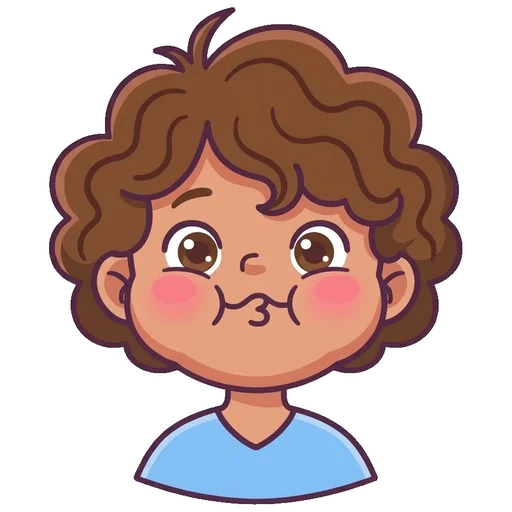
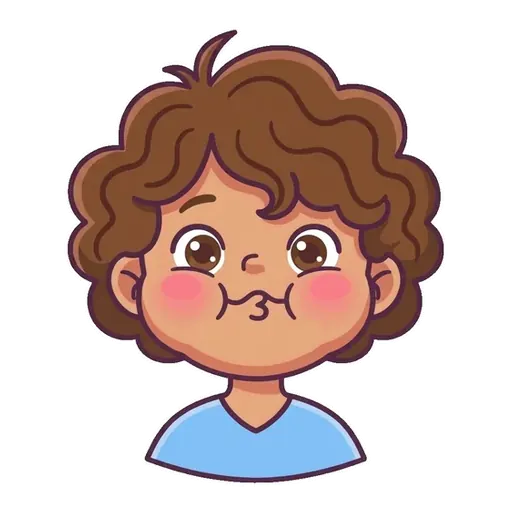
fix: Normalize three Caua frames to the reference size, position and skin tone (TASK-017)

Changed region(s): [[0.0938, 0.0, 0.9062, 1.0], [0.4688, 0.5, 0.5, 0.5312]]

diff --git a/test/assets/caua_frames_invariants_test.dart b/test/assets/caua_frames_invariants_test.dart
@@ -1,0 +1,346 @@
+import 'dart:io';
+import 'dart:math' as math;
+import 'dart:typed_data';
+import 'dart:ui' as ui;
+
+import 'package:flutter_test/flutter_test.dart';
+
+/// Locks the TASK-017 Caua frame normalization: canvas, alpha, weight,
+/// opaque bbox anchor, per-group size, skin/hair/shirt color and no dark halo.
+
+const _dir = 'assets/images/caua';
+
+const _expected = <String>[
+  'caua_chew_eyes_half',
+  'caua_chew_eyes_open',
+  'caua_chew_eyes_shut',
+  'caua_eca',
+  'caua_mouth_closed_eyes_half',
+  'caua_mouth_closed_eyes_open',
+  'caua_mouth_closed_eyes_shut',
+  'caua_mouth_open_eyes_half',
+  'caua_mouth_open_eyes_open',
+  'caua_mouth_open_eyes_shut',
+  'caua_win_eyes_half',
+  'caua_win_eyes_open',
+  'caua_win_eyes_shut',
+];
+
+// The 10 older frames used as the color reference.
+const _refNames = <String>[
+  'caua_chew_eyes_half',
+  'caua_chew_eyes_shut',
+  'caua_eca',
+  'caua_mouth_closed_eyes_open',
+  'caua_mouth_closed_eyes_shut',
+  'caua_mouth_open_eyes_half',
+  'caua_mouth_open_eyes_shut',
+  'caua_win_eyes_half',
+  'caua_win_eyes_open',
+  'caua_win_eyes_shut',
+];
+
+bool _isWin(String n) => n.startsWith('caua_win_');
+
+class _Frame {
+  _Frame(this.w, this.h, this.rgba);
+  final int w;
+  final int h;
+  final Uint8List rgba;
+  int r(int x, int y) => rgba[(y * w + x) * 4];
+  int g(int x, int y) => rgba[(y * w + x) * 4 + 1];
+  int b(int x, int y) => rgba[(y * w + x) * 4 + 2];
+  int a(int x, int y) => rgba[(y * w + x) * 4 + 3];
+}
+
+class _Metrics {
+  late int x0, y0, x1, y1;
+  double get bboxCx => (x0 + x1) / 2;
+  int get bboxW => x1 - x0 + 1;
+  int get bboxH => y1 - y0 + 1;
+  late List<double> skinRgb;
+  late List<double> hairRgb;
+  late List<double> shirtRgb;
+  late List<double> haloMean;
+  late int semiCount;
+}
+
+Future<_Frame> _decode(String name) async {
+  final bytes = await File('$_dir/$name.webp').readAsBytes();
+  final codec = await ui.instantiateImageCodec(bytes);
+  final fi = await codec.getNextFrame();
+  final img = fi.image;
+  final bd = await img.toByteData(format: ui.ImageByteFormat.rawRgba);
+  final f = _Frame(
+    img.width,
+    img.height,
+    bd!.buffer.asUint8List(bd.offsetInBytes, bd.lengthInBytes),
+  );
+  img.dispose();
+  codec.dispose();
+  return f;
+}
+
+double _median(List<int> v) {
+  final s = [...v]..sort();
+  final n = s.length;
+  return n.isOdd ? s[n ~/ 2].toDouble() : (s[n ~/ 2 - 1] + s[n ~/ 2]) / 2;
+}
+
+_Metrics _measure(_Frame f) {
+  final m = _Metrics();
+  bool op(int x, int y) => f.a(x, y) > 128;
+  var x0 = f.w, x1 = -1, y0 = f.h, y1 = -1;
+  for (var y = 0; y < f.h; y++) {
+    for (var x = 0; x < f.w; x++) {
+      if (op(x, y)) {
+        if (x < x0) x0 = x;
+        if (x > x1) x1 = x;
+        if (y < y0) y0 = y;
+        if (y > y1) y1 = y;
+      }
+    }
+  }
+  m
+    ..x0 = x0
+    ..x1 = x1
+    ..y0 = y0
+    ..y1 = y1;
+
+  bool blue(int x, int y) =>
+      op(x, y) && f.b(x, y) > f.r(x, y) + 40 && f.b(x, y) > 180;
+
+  // Shirt: first row with >= 40 blue pixels; mean color of all blue pixels.
+  var shirtTop = -1;
+  var sr = 0, sg = 0, sb = 0, sn = 0;
+  for (var y = 0; y < f.h; y++) {
+    var cnt = 0;
+    for (var x = 0; x < f.w; x++) {
+      if (blue(x, y)) {
+        cnt++;
+        sr += f.r(x, y);
+        sg += f.g(x, y);
+        sb += f.b(x, y);
+        sn++;
+      }
+    }
+    if (shirtTop < 0 && cnt >= 40) shirtTop = y;
+  }
+  expect(shirtTop, greaterThan(y0), reason: 'shirt must be detected');
+  m.shirtRgb = [sr / sn, sg / sn, sb / sn];
+
+  final headH = shirtTop - y0;
+  // Head width over the top 70% of head height.
+  var hx0 = f.w, hx1 = -1;
+  for (var y = y0; y < y0 + (0.7 * headH).toInt(); y++) {
+    for (var x = 0; x < f.w; x++) {
+      if (op(x, y)) {
+        if (x < hx0) hx0 = x;
+        if (x > hx1) hx1 = x;
+      }
+    }
+  }
+  final headW = hx1 - hx0 + 1;
+  final hcx = (hx0 + hx1) / 2;
+
+  // Skin band.
+  final ya = y0 + (0.55 * headH).toInt();
+  final yb = y0 + (0.75 * headH).toInt();
+  final xa = (hcx - 0.12 * headW).toInt();
+  final xb = (hcx + 0.12 * headW).toInt();
+  final px = <List<int>>[];
+  for (var y = ya; y < yb; y++) {
+    for (var x = xa; x < xb; x++) {
+      final r = f.r(x, y), g = f.g(x, y), b = f.b(x, y);
+      if (op(x, y) &&
+          r > 170 &&
+          r > g + 15 &&
+          g > b + 15 &&
+          g > 110 &&
+          r - g < 70) {
+        px.add([r, g, b]);
+      }
+    }
+  }
+  expect(px, isNotEmpty, reason: 'skin pixels must be found');
+  final med = [
+    for (var c = 0; c < 3; c++) _median([for (final p in px) p[c]]),
+  ];
+  final kept = px
+      .where(
+        (p) =>
+            (p[0] - med[0]).abs() +
+                (p[1] - med[1]).abs() +
+                (p[2] - med[2]).abs() <
+            40,
+      )
+      .toList();
+  m.skinRgb = [
+    for (var c = 0; c < 3; c++)
+      kept.fold<int>(0, (s, p) => s + p[c]) / kept.length,
+  ];
+
+  // Hair: dark brown pixels in the top region of the head.
+  final hy0 = y0 + (0.05 * headH).toInt();
+  final hy1 = y0 + (0.25 * headH).toInt();
+  final hxa = (hcx - 0.25 * headW).toInt();
+  final hxb = (hcx + 0.25 * headW).toInt();
+  var hr = 0, hg = 0, hb = 0, hn = 0;
+  for (var y = hy0; y < hy1; y++) {
+    for (var x = hxa; x < hxb; x++) {
+      final r = f.r(x, y), b = f.b(x, y);
+      if (r > b + 25 && r < 170 && r > 60) {
+        hr += r;
+        hg += f.g(x, y);
+        hb += b;
+        hn++;
+      }
+    }
+  }
+  expect(hn, greaterThan(0), reason: 'hair pixels must be found');
+  m.hairRgb = [hr / hn, hg / hn, hb / hn];
+
+  // Halo: partial-alpha pixels. The decoder may return premultiplied RGB,
+  // so un-premultiply before averaging. Very low alpha pixels
+  // lose color precision in that round trip, so only alpha >= 64 is judged.
+  var pr = 0, pg = 0, pb = 0, pn = 0;
+  for (var y = 0; y < f.h; y++) {
+    for (var x = 0; x < f.w; x++) {
+      final a = f.a(x, y);
+      if (a >= 64 && a < 250) {
+        pr += math.min(255, f.r(x, y) * 255 ~/ a);
+        pg += math.min(255, f.g(x, y) * 255 ~/ a);
+        pb += math.min(255, f.b(x, y) * 255 ~/ a);
+        pn++;
+      }
+    }
+  }
+  m.semiCount = pn;
+  m.haloMean = pn == 0 ? [255, 255, 255] : [pr / pn, pg / pn, pb / pn];
+  return m;
+}
+
+List<double> _lab(List<double> rgb) {
+  double lin(double c) {
+    c /= 255;
+    return c > 0.04045
+        ? math.pow((c + 0.055) / 1.055, 2.4).toDouble()
+        : c / 12.92;
+  }
+
+  final r = lin(rgb[0]), g = lin(rgb[1]), b = lin(rgb[2]);
+  final x = (0.4124 * r + 0.3576 * g + 0.1805 * b) / 0.95047;
+  final y = 0.2126 * r + 0.7152 * g + 0.0722 * b;
+  final z = (0.0193 * r + 0.1192 * g + 0.9505 * b) / 1.08883;
+  double f(double t) =>
+      t > 0.008856 ? math.pow(t, 1 / 3).toDouble() : 7.787 * t + 16 / 116;
+  return [116 * f(y) - 16, 500 * (f(x) - f(y)), 200 * (f(y) - f(z))];
+}
+
+double _dE76(List<double> a, List<double> b) {
+  final la = _lab(a), lb = _lab(b);
+  return math.sqrt(
+    math.pow(la[0] - lb[0], 2) +
+        math.pow(la[1] - lb[1], 2) +
+        math.pow(la[2] - lb[2], 2),
+  );
+}
+
+List<double> _meanRgb(Iterable<List<double>> v) {
+  final l = v.toList();
+  return [
+    for (var c = 0; c < 3; c++)
+      l.fold<double>(0, (s, e) => s + e[c]) / l.length,
+  ];
+}
+
+void main() {
+  final frames = <String, _Frame>{};
+  final metrics = <String, _Metrics>{};
+  late List<double> refSkin, refHair, refShirt;
+
+  setUpAll(() async {
+    TestWidgetsFlutterBinding.ensureInitialized();
+    await TestWidgetsFlutterBinding.instance.runAsync(() async {
+      for (final n in _expected) {
+        frames[n] = await _decode(n);
+        metrics[n] = _measure(frames[n]!);
+      }
+    });
+    refSkin = _meanRgb(_refNames.map((n) => metrics[n]!.skinRgb));
+    refHair = _meanRgb(_refNames.map((n) => metrics[n]!.hairRgb));
+    refShirt = _meanRgb(_refNames.map((n) => metrics[n]!.shirtRgb));
+  });
+
+  test('directory contains exactly the 13 expected webp frames', () {
+    final names =
+        Directory(_dir)
+            .listSync()
+            .whereType<File>()
+            .map((f) => f.uri.pathSegments.last)
+            .where((n) => n.endsWith('.webp'))
+            .map((n) => n.substring(0, n.length - 5))
+            .toList()
+          ..sort();
+    expect(names, [..._expected]..sort());
+    expect(_expected.length, 13);
+  });
+
+  for (final name in _expected) {
+    group(name, () {
+      test('is 512x512 with real alpha and <= 30 KB', () {
+        final f = frames[name]!;
+        expect(f.w, 512);
+        expect(f.h, 512);
+        var transparent = 0, opaque = 0;
+        for (var i = 3; i < f.rgba.length; i += 4) {
+          if (f.rgba[i] == 0) transparent++;
+          if (f.rgba[i] == 255) opaque++;
+        }
+        expect(transparent, greaterThan(0), reason: 'has transparent pixels');
+        expect(opaque, greaterThan(0), reason: 'has opaque pixels');
+        expect(
+          File('$_dir/$name.webp').lengthSync(),
+          lessThanOrEqualTo(30 * 1024),
+        );
+      });
+
+      test('opaque bbox is anchored at top 26, bottom 486, center x 255.5', () {
+        final m = metrics[name]!;
+        expect(m.y0, closeTo(26, 2));
+        expect(m.y1, closeTo(486, 2));
+        expect(m.bboxCx, closeTo(255.5, 2));
+      });
+
+      test('bbox size matches its group', () {
+        final m = metrics[name]!;
+        expect(m.bboxH, closeTo(461, 4));
+        if (_isWin(name)) {
+          expect(m.bboxW, closeTo(456, 4));
+        } else {
+          expect(m.bboxW, closeTo(386, 4));
+        }
+      });
+
+      test('skin tone is within dE76 <= 5 of the reference mean', () {
+        expect(_dE76(metrics[name]!.skinRgb, refSkin), lessThanOrEqualTo(5.0));
+      });
+
+      test('hair and shirt mean are within +-8 per channel of reference', () {
+        final m = metrics[name]!;
+        for (var c = 0; c < 3; c++) {
+          expect(m.hairRgb[c], closeTo(refHair[c], 8), reason: 'hair ch $c');
+          expect(m.shirtRgb[c], closeTo(refShirt[c], 8), reason: 'shirt ch $c');
+        }
+      });
+
+      test('partial-alpha pixels have no dark halo (mean RGB >= 240)', () {
+        final m = metrics[name]!;
+        expect(m.semiCount, greaterThan(0));
+        for (var c = 0; c < 3; c++) {
+          expect(m.haloMean[c], greaterThanOrEqualTo(240));
+        }
+      });
+    });
+  }
+}
